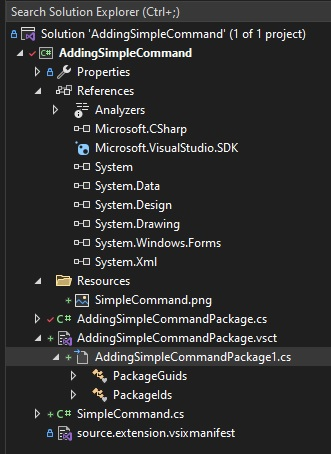
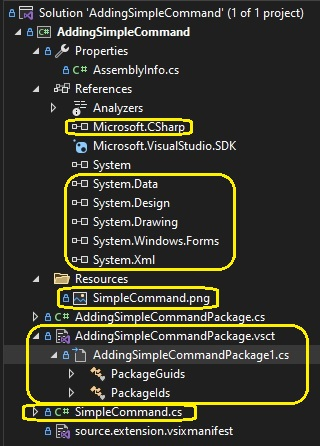
Added more info

Changed region(s): [[0.0, 0.0, 1.0, 0.991], [0.1562, 0.2332, 0.1875, 0.2623], [0.0938, 0.6121, 0.125, 0.6413]]

diff --git a/src/tasks/501100-AddingSimpleCommand/ReadMe.md b/src/tasks/501100-AddingSimpleCommand/ReadMe.md
@@ -15,4 +15,4 @@ After
 
 ![After adding command](./images/52AfterAddingCommand50.jpg)
 
-
+So you see quite a few things get added as a result of the new item. 
